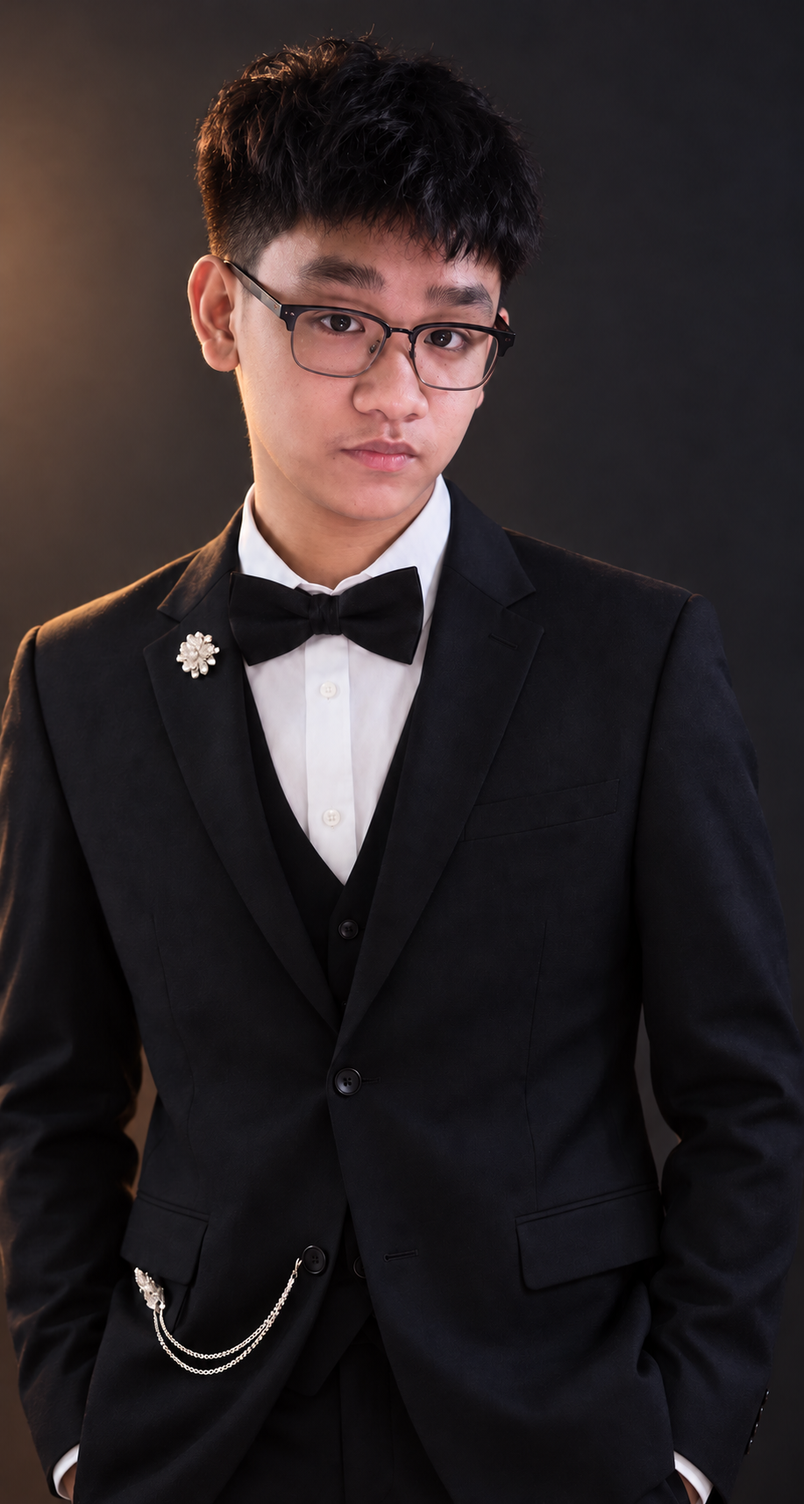
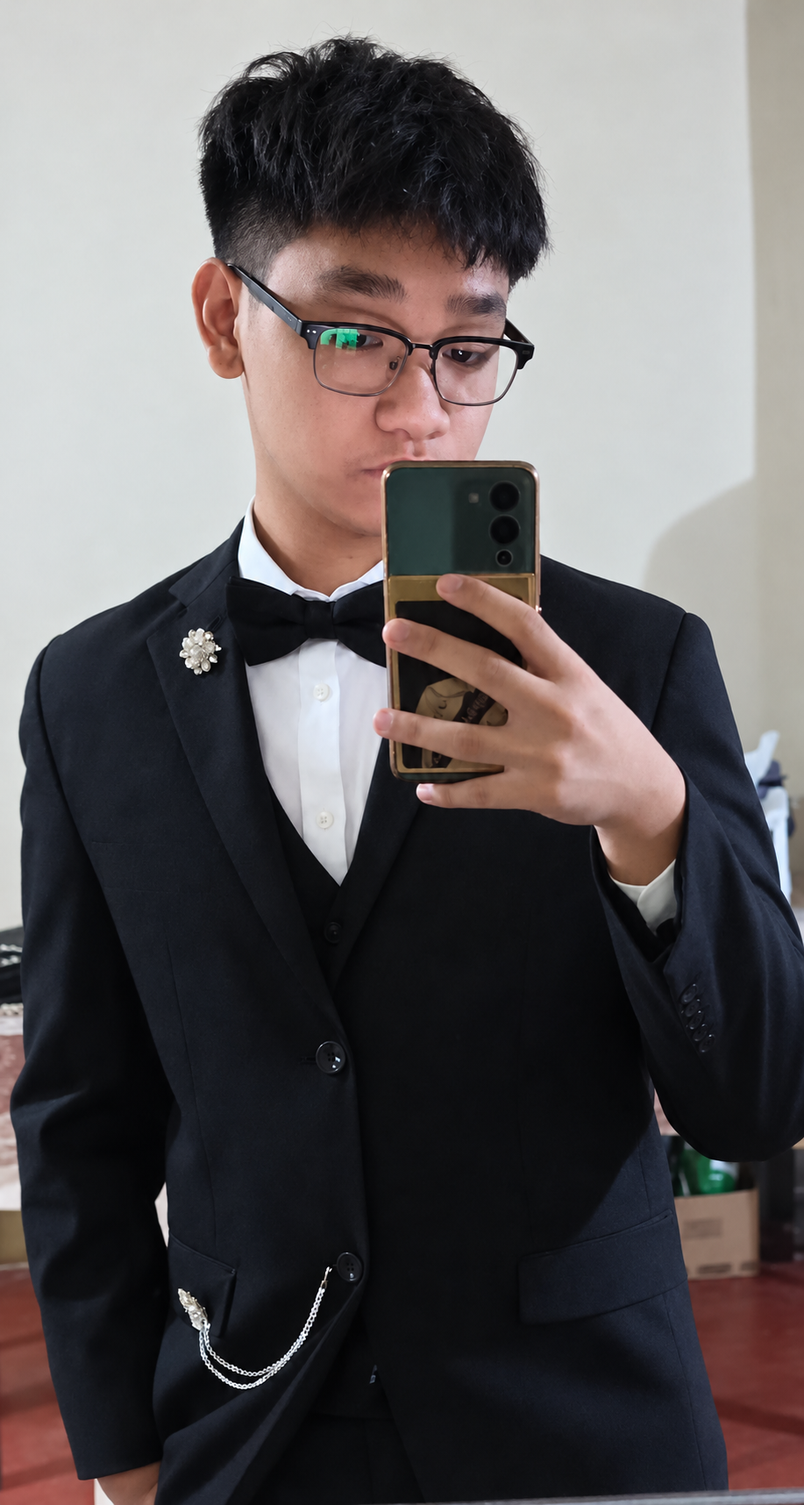
Refresh identity, contact image, and quote art

diff --git a/home/index.html b/home/index.html
@@ -15,9 +15,9 @@
   <a class="skip-link" href="#main">Skip to content</a>
   <div class="layout">
     <aside class="sidebar">
-      <div class="sidebar-top"><a class="brand" href="../home/" aria-label="Lil Romeo De Leon, home"><span class="brand-mark"><span class="brand-initials">LR</span></span><span class="brand-copy"><strong>LIL ROMEO</strong><small>DE LEON · BSIT-GD</small></span></a><button class="menu-toggle" type="button" aria-expanded="false" aria-controls="site-nav" aria-label="Open navigation"><span></span><span></span></button></div>
+      <div class="sidebar-top"><a class="brand" href="../home/" aria-label="Romeo's Portfolio, home"><span class="brand-mark"><img class="brand-avatar" src="../assets/images/lil-romeo-portrait.png" alt=""></span><span class="brand-copy"><span class="brand-title">Romeo's Portfolio</span></span></a><button class="menu-toggle" type="button" aria-expanded="false" aria-controls="site-nav" aria-label="Open navigation"><span></span><span></span></button></div>
       <nav class="nav" id="site-nav" aria-label="Main navigation"><a class="nav-link active" href="../home/" aria-current="page"><span class="nav-number">01</span> Home</a><a class="nav-link" href="../about/"><span class="nav-number">02</span> About</a><a class="nav-link" href="../contact/"><span class="nav-number">03</span> Contact</a></nav>
-      <div class="sidebar-bottom"><p class="availability"><span class="status-dot"></span> Learning through making</p><p class="sidebar-note">BSIT-GD<br>University of Perpetual Help System DALTA</p><span class="sidebar-copyright">© 2026 Lil Romeo De Leon</span></div>
+      <div class="sidebar-bottom"><p class="sidebar-note">BSIT-GD<br>University of Perpetual Help System DALTA</p><span class="sidebar-copyright">© 2026 Lil Romeo De Leon</span></div>
     </aside>
     <main id="main" class="main-content">
       <header class="topline"><span class="breadcrumb">Home</span><a class="top-profile" href="../about/" aria-label="About Lil Romeo De Leon"><img src="../assets/images/lil-romeo-portrait.png" alt=""><span>Lil Romeo</span></a></header>
@@ -28,7 +28,7 @@
         <a class="hero-credit" href="https://commons.wikimedia.org/wiki/File:Gaming_PC-Setup_-_Astaroth-_The_Completed_System.jpg" target="_blank" rel="noreferrer">Photo: Brian Wong · CC BY-SA 2.0 ↗</a>
       </section>
       <section class="gallery-section" id="gallery" aria-labelledby="gallery-title">
-        <div class="section-heading" data-reveal><div><p class="eyebrow">A personal inspiration board</p><h2 id="gallery-title">Frames that spark ideas.</h2></div><p class="section-intro">Cars, scenic places, skylines, PC setups, modern rooms, music and quote graphics. Browse the collections, then open any image to see it larger. Photography belongs to its credited creators; the quote designs are original visual studies.</p></div>
+        <div class="section-heading" data-reveal><div><p class="eyebrow">My visual world</p><h2 id="gallery-title">Frames that spark ideas.</h2></div><p class="section-intro">Cars, places, spaces, sound and design: the things that keep me curious.</p></div>
         <div class="filters" data-reveal role="group" aria-label="Filter gallery images"><button class="filter-button active" type="button" data-filter="all" aria-pressed="true">All <span>49</span></button><button class="filter-button" type="button" data-filter="cars" aria-pressed="false">Cars <span>7</span></button><button class="filter-button" type="button" data-filter="scenic" aria-pressed="false">Scenic places <span>7</span></button><button class="filter-button" type="button" data-filter="skylines" aria-pressed="false">Skylines <span>7</span></button><button class="filter-button" type="button" data-filter="pc" aria-pressed="false">PC setups <span>7</span></button><button class="filter-button" type="button" data-filter="rooms" aria-pressed="false">Modern rooms <span>7</span></button><button class="filter-button" type="button" data-filter="music" aria-pressed="false">Music <span>7</span></button><button class="filter-button" type="button" data-filter="quotes" aria-pressed="false">Quote graphics <span>7</span></button></div>
         <div class="gallery-grid"><button class="gallery-item item-wide" data-reveal type="button" data-category="cars" data-image="../assets/images/cars/cars-01.jpg" data-title="Pagani at Geneva" data-credit="Clément Bucco-Lechat · CC BY-SA 3.0" data-source="https://commons.wikimedia.org/wiki/File:Geneva_MotorShow_2013_-_Pagani_Huayra_blue_front_lights.jpg" aria-label="View Pagani at Geneva by Clément Bucco-Lechat larger"><img src="../assets/images/cars/cars-01.jpg" alt="Blue Pagani Huayra displayed under exhibition lights" loading="lazy"><span class="image-open" aria-hidden="true">↗</span><span class="image-caption"><strong>Pagani at Geneva</strong><small>Clément Bucco-Lechat · CC BY-SA 3.0</small></span></button>
           <button class="gallery-item" data-reveal type="button" data-category="cars" data-image="../assets/images/cars/cars-02.jpg" data-title="Rally on the Mountain Road" data-credit="Granada · CC BY-SA 4.0" data-source="https://commons.wikimedia.org/wiki/File:20170624_Schneeberglandrallye_DSC_7444.jpg" aria-label="View Rally on the Mountain Road by Granada larger"><img src="../assets/images/cars/cars-02.jpg" alt="Rally car speeding along a mountain road" loading="lazy"><span class="image-open" aria-hidden="true">↗</span><span class="image-caption"><strong>Rally on the Mountain Road</strong><small>Granada · CC BY-SA 4.0</small></span></button>
@@ -72,13 +72,13 @@
           <button class="gallery-item" data-reveal type="button" data-category="music" data-image="../assets/images/music/music-05.jpg" data-title="Vintage Studio Synthesizer" data-credit="chibicode · CC BY-SA 2.0" data-source="https://commons.wikimedia.org/wiki/File:IPEM_studio_synthesizer_(ca.1960-1980)_-_MIM_Brussels_(2015-05-30_07.36.09_by_chibicode).jpg" aria-label="View Vintage Studio Synthesizer by chibicode larger"><img src="../assets/images/music/music-05.jpg" alt="A vintage synthesizer at a music museum" loading="lazy"><span class="image-open" aria-hidden="true">↗</span><span class="image-caption"><strong>Vintage Studio Synthesizer</strong><small>chibicode · CC BY-SA 2.0</small></span></button>
           <button class="gallery-item" data-reveal type="button" data-category="music" data-image="../assets/images/music/music-06.jpg" data-title="Rockfield Piano Room" data-credit="Steve Knight from Halstead, United Kingdom · CC BY 2.0" data-source="https://commons.wikimedia.org/wiki/File:Studio_2_Piano_Rockfield_-_used_by_Chris_Martin_to_write_%22Yellow%22_(53720747909).jpg" aria-label="View Rockfield Piano Room by Steve Knight from Halstead, United Kingdom larger"><img src="../assets/images/music/music-06.jpg" alt="A piano in Studio 2 at Rockfield Studios" loading="lazy"><span class="image-open" aria-hidden="true">↗</span><span class="image-caption"><strong>Rockfield Piano Room</strong><small>Steve Knight from Halstead, United Kingdom · CC BY 2.0</small></span></button>
           <button class="gallery-item" data-reveal type="button" data-category="music" data-image="../assets/images/music/music-07.jpg" data-title="Multi-Neck Electric Guitar" data-credit="Garry Knight from London, England · CC BY-SA 2.0" data-source="https://commons.wikimedia.org/wiki/File:Hamer_Five-Neck_electric_guitar_on_Macari%27s_Musical_Instruments,_92-94_Charing_Cross_Road,_London,_2008_(photo_by_Garry_Knight).jpg" aria-label="View Multi-Neck Electric Guitar by Garry Knight from London, England larger"><img src="../assets/images/music/music-07.jpg" alt="A multi-neck electric guitar displayed in a music shop" loading="lazy"><span class="image-open" aria-hidden="true">↗</span><span class="image-caption"><strong>Multi-Neck Electric Guitar</strong><small>Garry Knight from London, England · CC BY-SA 2.0</small></span></button>
-          <button class="gallery-item" data-reveal type="button" data-category="quotes" data-image="../assets/images/quotes/quote-01.svg" data-title="A Patient Pace" data-credit="Original graphic study" data-source="../CREDITS.md#quote-graphics" aria-label="Open quote graphic “A Patient Pace” larger"><img src="../assets/images/quotes/quote-01.svg" alt="Typography graphic reading “Progress loves a patient pace.”" loading="lazy"><span class="image-open" aria-hidden="true">↗</span><span class="image-caption"><strong>A Patient Pace</strong><small>Original graphic study</small></span></button>
-          <button class="gallery-item" data-reveal type="button" data-category="quotes" data-image="../assets/images/quotes/quote-02.svg" data-title="Space for Ideas" data-credit="Original graphic study" data-source="../CREDITS.md#quote-graphics" aria-label="Open quote graphic “Space for Ideas” larger"><img src="../assets/images/quotes/quote-02.svg" alt="Typography graphic reading “Make space for ideas to take shape.”" loading="lazy"><span class="image-open" aria-hidden="true">↗</span><span class="image-caption"><strong>Space for Ideas</strong><small>Original graphic study</small></span></button>
-          <button class="gallery-item" data-reveal type="button" data-category="quotes" data-image="../assets/images/quotes/quote-03.svg" data-title="Start Small" data-credit="Original graphic study" data-source="../CREDITS.md#quote-graphics" aria-label="Open quote graphic “Start Small” larger"><img src="../assets/images/quotes/quote-03.svg" alt="Typography graphic reading “Small starts can become good things.”" loading="lazy"><span class="image-open" aria-hidden="true">↗</span><span class="image-caption"><strong>Start Small</strong><small>Original graphic study</small></span></button>
-          <button class="gallery-item item-wide item-tall" data-reveal type="button" data-category="quotes" data-image="../assets/images/quotes/quote-04.svg" data-title="Stay Curious" data-credit="Original graphic study" data-source="../CREDITS.md#quote-graphics" aria-label="Open quote graphic “Stay Curious” larger"><img src="../assets/images/quotes/quote-04.svg" alt="Typography graphic reading “Stay curious. Keep making.”" loading="lazy"><span class="image-open" aria-hidden="true">↗</span><span class="image-caption"><strong>Stay Curious</strong><small>Original graphic study</small></span></button>
-          <button class="gallery-item" data-reveal type="button" data-category="quotes" data-image="../assets/images/quotes/quote-05.svg" data-title="Practice" data-credit="Original graphic study" data-source="../CREDITS.md#quote-graphics" aria-label="Open quote graphic “Practice” larger"><img src="../assets/images/quotes/quote-05.svg" alt="Typography graphic reading “Practice turns possibility into skill.”" loading="lazy"><span class="image-open" aria-hidden="true">↗</span><span class="image-caption"><strong>Practice</strong><small>Original graphic study</small></span></button>
-          <button class="gallery-item" data-reveal type="button" data-category="quotes" data-image="../assets/images/quotes/quote-06.svg" data-title="Build and Learn" data-credit="Original graphic study" data-source="../CREDITS.md#quote-graphics" aria-label="Open quote graphic “Build and Learn” larger"><img src="../assets/images/quotes/quote-06.svg" alt="Typography graphic reading “Build a little. Learn a lot.”" loading="lazy"><span class="image-open" aria-hidden="true">↗</span><span class="image-caption"><strong>Build and Learn</strong><small>Original graphic study</small></span></button>
-          <button class="gallery-item" data-reveal type="button" data-category="quotes" data-image="../assets/images/quotes/quote-07.svg" data-title="Follow the Idea" data-credit="Original graphic study" data-source="../CREDITS.md#quote-graphics" aria-label="Open quote graphic “Follow the Idea” larger"><img src="../assets/images/quotes/quote-07.svg" alt="Typography graphic reading “Follow the idea that keeps you curious.”" loading="lazy"><span class="image-open" aria-hidden="true">↗</span><span class="image-caption"><strong>Follow the Idea</strong><small>Original graphic study</small></span></button>
+          <button class="gallery-item" data-reveal type="button" data-category="quotes" data-image="../assets/images/quotes/quote-01.svg" data-title="A Patient Pace" data-credit="Original graphic study" data-source="../CREDITS.md#quote-graphics" aria-label="Open quote graphic “A Patient Pace” larger"><img src="../assets/images/quotes/quote-01.svg" alt="Graphic quote poster: Progress loves a patient pace." loading="lazy"><span class="image-open" aria-hidden="true">↗</span><span class="image-caption"><strong>A Patient Pace</strong><small>Original graphic study</small></span></button>
+          <button class="gallery-item" data-reveal type="button" data-category="quotes" data-image="../assets/images/quotes/quote-02.svg" data-title="Space for Ideas" data-credit="Original graphic study" data-source="../CREDITS.md#quote-graphics" aria-label="Open quote graphic “Space for Ideas” larger"><img src="../assets/images/quotes/quote-02.svg" alt="Graphic quote poster: Make space for ideas to take shape." loading="lazy"><span class="image-open" aria-hidden="true">↗</span><span class="image-caption"><strong>Space for Ideas</strong><small>Original graphic study</small></span></button>
+          <button class="gallery-item" data-reveal type="button" data-category="quotes" data-image="../assets/images/quotes/quote-03.svg" data-title="Start Small" data-credit="Original graphic study" data-source="../CREDITS.md#quote-graphics" aria-label="Open quote graphic “Start Small” larger"><img src="../assets/images/quotes/quote-03.svg" alt="Graphic quote poster: Small starts can become good things." loading="lazy"><span class="image-open" aria-hidden="true">↗</span><span class="image-caption"><strong>Start Small</strong><small>Original graphic study</small></span></button>
+          <button class="gallery-item item-wide item-tall" data-reveal type="button" data-category="quotes" data-image="../assets/images/quotes/quote-04.svg" data-title="Stay Curious" data-credit="Original graphic study" data-source="../CREDITS.md#quote-graphics" aria-label="Open quote graphic “Stay Curious” larger"><img src="../assets/images/quotes/quote-04.svg" alt="Graphic quote poster: Stay curious. Keep making." loading="lazy"><span class="image-open" aria-hidden="true">↗</span><span class="image-caption"><strong>Stay Curious</strong><small>Original graphic study</small></span></button>
+          <button class="gallery-item" data-reveal type="button" data-category="quotes" data-image="../assets/images/quotes/quote-05.svg" data-title="Practice" data-credit="Original graphic study" data-source="../CREDITS.md#quote-graphics" aria-label="Open quote graphic “Practice” larger"><img src="../assets/images/quotes/quote-05.svg" alt="Graphic quote poster: Practice turns possibility into skill." loading="lazy"><span class="image-open" aria-hidden="true">↗</span><span class="image-caption"><strong>Practice</strong><small>Original graphic study</small></span></button>
+          <button class="gallery-item" data-reveal type="button" data-category="quotes" data-image="../assets/images/quotes/quote-06.svg" data-title="Build and Learn" data-credit="Original graphic study" data-source="../CREDITS.md#quote-graphics" aria-label="Open quote graphic “Build and Learn” larger"><img src="../assets/images/quotes/quote-06.svg" alt="Graphic quote poster: Build a little. Learn a lot." loading="lazy"><span class="image-open" aria-hidden="true">↗</span><span class="image-caption"><strong>Build and Learn</strong><small>Original graphic study</small></span></button>
+          <button class="gallery-item" data-reveal type="button" data-category="quotes" data-image="../assets/images/quotes/quote-07.svg" data-title="Follow the Idea" data-credit="Original graphic study" data-source="../CREDITS.md#quote-graphics" aria-label="Open quote graphic “Follow the Idea” larger"><img src="../assets/images/quotes/quote-07.svg" alt="Graphic quote poster: Follow the idea that keeps you curious." loading="lazy"><span class="image-open" aria-hidden="true">↗</span><span class="image-caption"><strong>Follow the Idea</strong><small>Original graphic study</small></span></button>
         </div>
         <p class="gallery-footnote" data-reveal>Tap any image to open a larger view. Photo credits and license links are included with each image.</p>
       </section>

diff --git a/contact/index.html b/contact/index.html
@@ -3,20 +3,20 @@
 <head>
   <meta charset="utf-8"><meta name="viewport" content="width=device-width, initial-scale=1"><meta name="theme-color" content="#121212">
   <meta name="description" content="Contact Lil Romeo De Leon by email or phone.">
-  <meta property="og:type" content="website"><meta property="og:url" content="https://unorfl.github.io/DeLeonPortfolio/contact/"><meta property="og:title" content="Contact — Lil Romeo De Leon"><meta property="og:description" content="Connect with Lil Romeo De Leon, BSIT-GD student at UPHSD."><meta property="og:image" content="https://unorfl.github.io/DeLeonPortfolio/assets/images/lil-romeo-portrait.png">
+  <meta property="og:type" content="website"><meta property="og:url" content="https://unorfl.github.io/DeLeonPortfolio/contact/"><meta property="og:title" content="Contact — Lil Romeo De Leon"><meta property="og:description" content="Connect with Lil Romeo De Leon, BSIT-GD student at UPHSD."><meta property="og:image" content="https://unorfl.github.io/DeLeonPortfolio/assets/images/porsche-gt3-rs.jpg">
   <title>Contact — Lil Romeo De Leon</title><link rel="icon" href="../assets/images/favicon.svg" type="image/svg+xml"><link rel="preconnect" href="https://fonts.googleapis.com"><link rel="preconnect" href="https://fonts.gstatic.com" crossorigin><link href="https://fonts.googleapis.com/css2?family=Montserrat:wght@400;500;600;700&display=swap" rel="stylesheet"><link rel="stylesheet" href="../assets/css/site.css">
 </head>
 <body>
   <a class="skip-link" href="#main">Skip to content</a>
   <div class="layout"><aside class="sidebar">
-    <div class="sidebar-top"><a class="brand" href="../home/" aria-label="Lil Romeo De Leon, gallery home"><span class="brand-mark"><span class="brand-initials">LR</span></span><span class="brand-copy"><strong>LIL ROMEO</strong><small>DE LEON · BSIT-GD</small></span></a><button class="menu-toggle" type="button" aria-expanded="false" aria-controls="site-nav" aria-label="Open navigation"><span></span><span></span></button></div>
+    <div class="sidebar-top"><a class="brand" href="../home/" aria-label="Romeo's Portfolio, home"><span class="brand-mark"><img class="brand-avatar" src="../assets/images/lil-romeo-portrait.png" alt=""></span><span class="brand-copy"><span class="brand-title">Romeo's Portfolio</span></span></a><button class="menu-toggle" type="button" aria-expanded="false" aria-controls="site-nav" aria-label="Open navigation"><span></span><span></span></button></div>
     <nav class="nav" id="site-nav" aria-label="Main navigation"><a class="nav-link" href="../home/"><span class="nav-number">01</span> Home</a><a class="nav-link" href="../about/"><span class="nav-number">02</span> About</a><a class="nav-link active" href="../contact/" aria-current="page"><span class="nav-number">03</span> Contact</a></nav>
-    <div class="sidebar-bottom"><p class="availability"><span class="status-dot"></span> Learning through making</p><p class="sidebar-note">BSIT-GD<br>University of Perpetual Help System DALTA</p><span class="sidebar-copyright">© 2026 Lil Romeo De Leon</span></div>
+    <div class="sidebar-bottom"><p class="sidebar-note">BSIT-GD<br>University of Perpetual Help System DALTA</p><span class="sidebar-copyright">© 2026 Lil Romeo De Leon</span></div>
   </aside>
   <main id="main" class="main-content page-main">
     <header class="topline"><span class="breadcrumb"><a href="../home/">Home</a> <span>/</span> Contact</span><a class="top-profile" href="../about/" aria-label="About Lil Romeo De Leon"><img src="../assets/images/lil-romeo-portrait.png" alt=""><span>Lil Romeo</span></a></header>
     <section class="contact-wrap contact-romeo">
-      <figure class="contact-visual clay-panel" data-reveal><img src="../assets/images/skylines/skylines-05.jpg" alt="Singapore’s Central Business District at dusk" loading="eager"><figcaption>“Singapore at Dusk” by Basile Morin · <a href="https://commons.wikimedia.org/wiki/File:Skylines_of_the_Central_Business_District,_Singapore_at_dusk.jpg" target="_blank" rel="noreferrer">CC BY-SA 4.0 ↗</a></figcaption></figure>
+      <figure class="contact-visual clay-panel" data-reveal><img src="../assets/images/porsche-gt3-rs.jpg" alt="Close-up of a silver Porsche 911 GT3 RS, showing its headlight and carbon-fiber hood" loading="eager"><figcaption>“Silver Porsche 911 GT3 RS” by Jonas Rhyner · <a href="https://unsplash.com/photos/silver-porsche-911-parked-on-street-during-daytime-89xt9EnPEe8" target="_blank" rel="noreferrer">Unsplash License ↗</a></figcaption></figure>
       <div class="contact-content"><div class="contact-intro" data-reveal><p class="eyebrow" data-reveal>Get in touch</p><h1 data-reveal>Let’s start a conversation.</h1><p data-reveal>Reach out about design, technology, learning opportunities or just to say hello.</p></div>
         <div class="contact-card clay-panel" data-reveal>
           <div class="contact-row" data-reveal><span class="contact-label">Email</span><a href="mailto:romeodeleon389@gmail.com">romeodeleon389@gmail.com <span aria-hidden="true">↗</span></a></div>

diff --git a/about/index.html b/about/index.html
@@ -4,7 +4,7 @@
   <meta charset="utf-8"><meta name="viewport" content="width=device-width, initial-scale=1"><meta name="theme-color" content="#121212">
   <meta name="description" content="Meet Lil Romeo De Leon, a BSIT-GD student at UPHSD exploring software and graphic design.">
   <meta property="og:type" content="website"><meta property="og:url" content="https://unorfl.github.io/DeLeonPortfolio/about/"><meta property="og:title" content="About — Lil Romeo De Leon"><meta property="og:description" content="An aspiring IT student learning through code, design and play.">
-  <meta property="og:image" content="https://unorfl.github.io/DeLeonPortfolio/assets/images/lil-romeo-portrait.png"><meta property="og:image:alt" content="Lil Romeo De Leon looking directly at the camera">
+  <meta property="og:image" content="https://unorfl.github.io/DeLeonPortfolio/assets/images/lil-romeo-portrait.png"><meta property="og:image:alt" content="Lil Romeo De Leon in a black suit">
   <meta name="twitter:card" content="summary_large_image"><meta name="twitter:image" content="https://unorfl.github.io/DeLeonPortfolio/assets/images/lil-romeo-portrait.png">
   <title>About — Lil Romeo De Leon</title>
   <link rel="icon" href="../assets/images/favicon.svg" type="image/svg+xml"><link rel="preconnect" href="https://fonts.googleapis.com"><link rel="preconnect" href="https://fonts.gstatic.com" crossorigin><link href="https://fonts.googleapis.com/css2?family=Montserrat:wght@400;500;600;700&display=swap" rel="stylesheet"><link rel="stylesheet" href="../assets/css/site.css">
@@ -12,14 +12,14 @@
 <body>
   <a class="skip-link" href="#main">Skip to content</a>
   <div class="layout"><aside class="sidebar">
-    <div class="sidebar-top"><a class="brand" href="../home/" aria-label="Lil Romeo De Leon, gallery home"><span class="brand-mark"><span class="brand-initials">LR</span></span><span class="brand-copy"><strong>LIL ROMEO</strong><small>DE LEON · BSIT-GD</small></span></a><button class="menu-toggle" type="button" aria-expanded="false" aria-controls="site-nav" aria-label="Open navigation"><span></span><span></span></button></div>
+    <div class="sidebar-top"><a class="brand" href="../home/" aria-label="Romeo's Portfolio, home"><span class="brand-mark"><img class="brand-avatar" src="../assets/images/lil-romeo-portrait.png" alt=""></span><span class="brand-copy"><span class="brand-title">Romeo's Portfolio</span></span></a><button class="menu-toggle" type="button" aria-expanded="false" aria-controls="site-nav" aria-label="Open navigation"><span></span><span></span></button></div>
     <nav class="nav" id="site-nav" aria-label="Main navigation"><a class="nav-link" href="../home/"><span class="nav-number">01</span> Home</a><a class="nav-link active" href="../about/" aria-current="page"><span class="nav-number">02</span> About</a><a class="nav-link" href="../contact/"><span class="nav-number">03</span> Contact</a></nav>
-    <div class="sidebar-bottom"><p class="availability"><span class="status-dot"></span> Learning through making</p><p class="sidebar-note">BSIT-GD<br>University of Perpetual Help System DALTA</p><span class="sidebar-copyright">© 2026 Lil Romeo De Leon</span></div>
+    <div class="sidebar-bottom"><p class="sidebar-note">BSIT-GD<br>University of Perpetual Help System DALTA</p><span class="sidebar-copyright">© 2026 Lil Romeo De Leon</span></div>
   </aside>
   <main id="main" class="main-content page-main">
     <header class="topline"><span class="breadcrumb"><a href="../home/">Home</a> <span>/</span> About</span><a class="top-profile" href="../about/" aria-label="About Lil Romeo De Leon"><img src="../assets/images/lil-romeo-portrait.png" alt=""><span>Lil Romeo</span></a></header>
     <section class="about-hero about-hero-romeo clay-panel" data-reveal>
-      <figure class="about-visual" data-reveal><img src="../assets/images/lil-romeo-portrait.png" alt="Lil Romeo De Leon in a black suit, looking directly at the camera" loading="eager"><figcaption>Portrait retouched from a photo provided by Lil Romeo De Leon.</figcaption></figure>
+      <figure class="about-visual" data-reveal><img src="../assets/images/lil-romeo-portrait.png" alt="Lil Romeo De Leon taking a mirror selfie in a black suit" loading="eager"><figcaption>Portrait photo provided by Lil Romeo De Leon.</figcaption></figure>
       <div class="about-copy" data-reveal><p class="eyebrow" data-reveal>About me</p><h1 data-reveal>Lil Romeo De Leon</h1>
         <p class="about-lede" data-reveal>An aspiring BSIT-GD student at the University of Perpetual Help System DALTA.</p>
         <p data-reveal>I’m building a foundation in programming and visual design, with a long-term goal of working in software development and creating thoughtful graphic and game experiences.</p>

diff --git a/assets/css/site.css b/assets/css/site.css
@@ -124,8 +124,8 @@ img { display: block; max-width: 100%; }
 .image-open { position: absolute; z-index: 1; top: 13px; right: 13px; width: 31px; height: 31px; display: grid; place-items: center; border: 1px solid rgba(255,255,255,.18); border-radius: 10px; color: white; background: rgba(18,18,18,.86); opacity: 0; transform: translateY(4px); transition: opacity .2s, transform .2s; }
 .gallery-item:hover .image-open, .gallery-item:focus-visible .image-open { opacity: 1; transform: none; }
 .image-caption { position: absolute; z-index: 1; inset: auto 17px 14px; display: grid; gap: 2px; }
-.image-caption strong { color: #f3f3f3; font-size: 13px; font-weight: 600; }
-.image-caption small { color: #dedede; font-size: 13px; }
+.image-caption strong { color: #f3f3f3; font-size: 15px; font-weight: 600; }
+.image-caption small { color: #dedede; font-size: 15px; }
 .gallery-item[hidden] { display: none; }
 .gallery-footnote { margin: 21px 0 0; color: #a1a1a1; font-size: 13px; }
 .site-footer { display: flex; justify-content: space-between; gap: 18px; align-items: center; margin-top: 74px; padding-top: 18px; border-top: 1px solid #292929; color: #929292; font-size: 13px; }
@@ -253,8 +253,8 @@ img { display: block; max-width: 100%; }
   .gallery-item.item-wide { grid-column: span 2; }
   .gallery-item.item-tall { grid-row: span 1; }
   .image-caption { inset: auto 11px 10px; }
-  .image-caption strong { font-size: 13px; }
-  .image-caption small { font-size: 13px; }
+  .image-caption strong { font-size: 15px; }
+  .image-caption small { font-size: 15px; }
   .image-open { width: 27px; height: 27px; top: 8px; right: 8px; opacity: 1; transform: none; }
   .site-footer { margin-top: 46px; font-size: 13px; }
   .about-hero { grid-template-columns: 1fr; gap: 28px; min-height: auto; padding: 28px 22px; border-radius: 17px; }
@@ -362,4 +362,19 @@ img { display: block; max-width: 100%; }
 }
 @media(max-width:390px) {
   .home-cover h1 { font-size:clamp(20px,6.1vw,24px); }
+}
+
+/* Romeo's compact portrait lockup replaces the former two-line nameplate. */
+.sidebar .brand { flex-direction:column; align-items:center; justify-content:center; gap:7px; width:100%; margin-inline:auto; text-align:center; }
+.sidebar .brand-mark { width:47px; height:47px; border-radius:14px; }
+.sidebar .brand-avatar { width:100%; height:100%; object-fit:cover; object-position:50% 22%; }
+.sidebar .brand-copy { display:flex; justify-content:center; width:100%; line-height:1.1; }
+.sidebar .brand-title { display:block; max-width:100%; color:var(--soft); font-size:11px; font-weight:600; letter-spacing:.025em; white-space:nowrap; }
+.sidebar .nav { margin-top:52px; }
+@media(max-width:720px) {
+  .sidebar-top { position:relative; justify-content:center; min-height:68px; }
+  .sidebar .brand { width:auto; margin-inline:auto; gap:4px; }
+  .sidebar .brand-mark { width:42px; height:42px; border-radius:12px; }
+  .sidebar .brand-title { font-size:11px; }
+  .sidebar .menu-toggle { position:absolute; top:50%; right:0; transform:translateY(-50%); }
 }

diff --git a/CREDITS.md b/CREDITS.md
@@ -80,4 +80,8 @@ Seven original typography studies based on short motivational phrases. They were
 
 ## Portrait
 
-The portrait on the About page was retouched from an image supplied for this portfolio.
+The portrait on the About page and in the navigation was provided for this portfolio by Lil Romeo De Leon.
+
+## Contact page image
+
+“Silver Porsche 911 GT3 RS” by Jonas Rhyner, used under the [Unsplash License](https://unsplash.com/license). [Original photo](https://unsplash.com/photos/silver-porsche-911-parked-on-street-during-daytime-89xt9EnPEe8).
